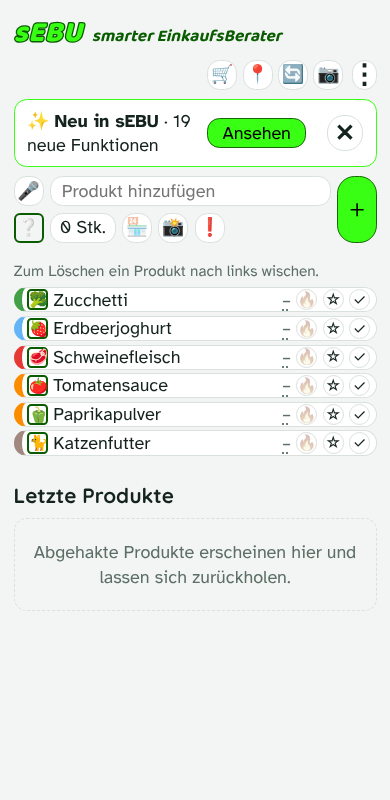
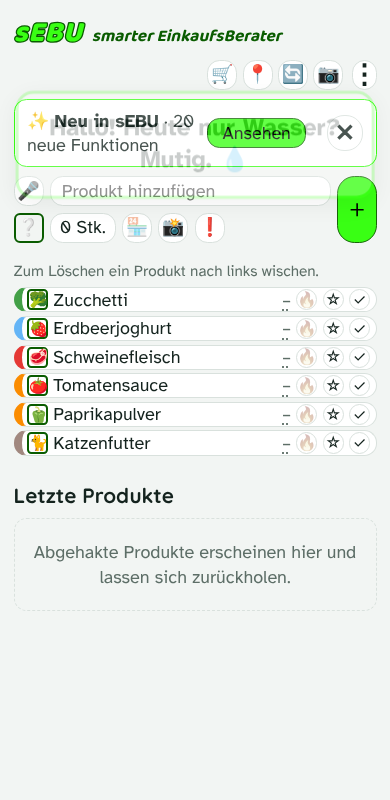
Weiterempfehlen: QR-Code, Link kopieren, Teilen
Claude-Session: https://claude.ai/code/session_01D8YzSZq49mBYGwQ71jG7sa

Changed region(s): [[0.0308, 0.0938, 0.9538, 0.25], [0.9538, 0.125, 0.9846, 0.2188]]

diff --git a/index.html b/index.html
@@ -718,7 +718,8 @@ var NEWS=[
  ['n16','👋','Begrüssung: Beim Öffnen 4 Sekunden ein Spruch zur Tageszeit – einen Monat lang jeden Tag ein anderer. Abschaltbar.',[['settings','row:Begrüssung','Hier wählst du Witzig, Kurz oder Aus.',{'sub':'look'}]]],
  ['n17','🔎','Geschäft suchen: Bei «Wo kaufst du das?» (🏪) findest du mit dem Suchfeld schnell das richtige Geschäft.',[['list','[data-a=shopsel][data-id=draft]','🏪 antippen – oben im Fenster ist das Suchfeld.']]],
  ['n18','❗','Dringendes beim Öffnen: Unter dem Begrüssungs-Spruch stehen deine dringenden Produkte rot – bis du ✕ tippst.',null],
- ['n19','🔎','Laden wählen: Zuerst «Neuer Laden hier», dann suchen – oder «Alle anzeigen» für die Liste nach ABC.',[['list','[data-a=storepick]','📍 antippen: oben neuer Laden, darunter die Suche.']]]];
+ ['n19','🔎','Laden wählen: Zuerst «Neuer Laden hier», dann suchen – oder «Alle anzeigen» für die Liste nach ABC.',[['list','[data-a=storepick]','📍 antippen: oben neuer Laden, darunter die Suche.']]],
+ ['n20','💚','Weiterempfehlen: Im Menü findest du den QR-Code zum Speichern und den Link zum Kopieren oder Teilen.',[['list','.menu [data-v=recommend]','Hier unten im Menü.',{'menu':1}]]]];
 function newsBanner(){var n=S.ob.done&&S.set.news!==false?newsNew().length:0;if(!n)return'';return'<div class="ban" style="flex-wrap:nowrap;align-items:center"><span style="flex:1">✨ <b>'+t('Neu in sEBU')+'</b> · '+t(n===1?'1 neue Funktion':'{0} neue Funktionen',n)+'</span><button class="btn pri" data-a="newsopen">'+t('Ansehen')+'</button><button class="btn sq dealxb" data-a="newsok" aria-label="'+t('Ausblenden')+'">✕</button></div>'}
 function newsNew(){var i=-1;for(var k=0;k<NEWS.length;k++)if(NEWS[k][0]===S.set.newsSeen)i=k;return NEWS.slice(i+1)}
 function newsSteps(n){return(n[3]||[]).map(function(x){return st(x[0],x[1],x[2],0,Object.assign({ro:1},x[3]||{}))})}
@@ -888,6 +889,12 @@ var wheelT=0,wheelD=null;
 function dealPanel(i){return'<div class="card blk" data-up="1" style="touch-action:none">'+dealBody(i)+'<div class="seg"><button class="btn sq" data-a="dealclose" aria-label="'+t('Schliessen')+'">✕</button><span class="small mute" style="align-self:center">↑ '+t('Nach oben wischen zum Schliessen')+'</span></div></div>'}
 
 /* ===== Ansicht Läden ===== */
+/* ===== Weiterempfehlen: QR-Code (fest eingebaut) und Link ===== */
[1 lines of base64/hex data omitted]
+function vRec(){return'<h2>💚 '+t('Weiterempfehlen')+'</h2><p>'+t('Gefällt dir sEBU? Zeig den QR-Code oder schick den Link weiter.')+'</p>'
+ +'<div style="text-align:center;margin:.6em 0"><img id="qrimg" src="'+QRPNG+'" alt="QR-Code sEBU" style="width:min(70vw,16em);border-radius:14px;border:3px solid var(--acc);background:#fff"></div>'
+ +'<div class="seg" style="justify-content:center"><button class="btn pri" data-a="qrsave">💾 '+t('QR-Code speichern')+'</button></div><p class="small mute" style="text-align:center">'+t('Am iPhone geht auch: Bild lange drücken → «Zu Fotos hinzufügen».')+'</p>'
+ +'<h3>🔗 '+t('Link')+'</h3><input class="field" id="recurl" value="'+APPURL+'" readonly style="width:100%"><div class="seg" style="margin-top:.4em"><button class="btn pri" data-a="reccopy">📋 '+t('Link kopieren')+'</button>'+(navigator.share?'<button class="btn" data-a="recshare">📤 '+t('Teilen …')+'</button>':'')+'</div>'}
 function vShops(){var g={},h='<h2>🏪 '+t('Geschäfte')+'</h2>';
  S.items.forEach(function(i){var k=(i.stores||[]).slice();if(i.stext)k.push(i.stext);k.forEach(function(n){(g[n]=g[n]||[]).push(i)})});
  var ks=Object.keys(g);
@@ -1149,6 +1156,7 @@ AREAS.push(['Menü und Ansicht',[
  mn('deals','Aktionen: aktuelle Angebote und deine Beobachtungsliste.','Das 🔥 bei einem Produkt beobachtet es. In den Einstellungen schaltest du das auf automatisch, manuell oder aus. Bei «aus» verschwindet der Menüpunkt.'),
  mn('ideas','Ideen: Vorschläge und Rezepte, deren Zutaten du auf die Liste legst.','Du stellst die Personenzahl ein, die Mengen rechnen sich um.'),
  mn('settings','Einstellungen: alles, was du anpassen kannst.','Dazu gibt es eine eigene Führung, in der du gleich alles einstellen kannst.'),
+ mn('recommend','💚 Weiterempfehlen: QR-Code zeigen oder speichern, Link kopieren oder teilen.','Am iPhone: «QR-Code speichern» öffnet das Teilen-Menü, dort «Bild sichern».\n<b>Wenn das Speichern nicht klappt:</b> das Bild lange drücken und «Zu Fotos hinzufügen» wählen.'),
  st('list','.menu [data-a=more]','Mehr: weitere Funktionen.','Dahinter stehen Ratgeber, Anlässe, Stammartikel, Premium-KI und Test.',{menu:1,ro:1}),
  mn('advice','Ratgeber: Fotografiere ein Produkt oder Regal und frage, was passt.','Du brauchst dafür einen eigenen KI-Schlüssel, oder du kopierst die Frage von Hand.',1),
  mn('events','Anlässe: Planung für Geburtstag, Grillabend oder Besuch.','Die App rechnet Mengen nach Personenzahl und legt die Zutaten auf die Liste.',1),
@@ -1334,7 +1342,7 @@ function vShare(){var on=shareOn(),h='<p class="small mute">'+t('Zwei Personen b
  return h}
 
 /* ===== Kopf, Menü, Rendern ===== */
-var NAV=[['list','🛒','Einkaufsliste'],['lists','📋','Einkaufslisten'],['favs','★','Favoriten'],['shops','🏪','Geschäfte'],['deals','🔥','Aktionen'],['ideas','💡','Ideen'],['settings','⚙','Einstellungen']];
+var NAV=[['list','🛒','Einkaufsliste'],['lists','📋','Einkaufslisten'],['favs','★','Favoriten'],['shops','🏪','Geschäfte'],['deals','🔥','Aktionen'],['ideas','💡','Ideen'],['settings','⚙','Einstellungen'],['recommend','💚','Weiterempfehlen']];
 var MORE=[['advice','📷','Ratgeber'],['events','🎉','Anlässe'],['stamm','📌','Stammartikel'],['kipro','✨','Premium-KI'],['test','🧪','Test & Feedback']];
 function navBtn(n){return'<button data-a="nav" data-v="'+n[0]+'" title="'+t(n[2])+'"'+((view===n[0]&&!(view==='settings'&&sub==='lists'))||(n[0]==='lists'&&view==='settings'&&sub==='lists')?' class="cur"':'')+'><span>'+n[1]+'</span><span class="ml">'+t(n[2])+'</span></button>'}
 function menuHtml(){var m=S.set.mode;return'<div class="menu '+(m==='minimal'?'min':m==='gross'?'big':'')+'">'+NAV.filter(function(n){return !(n[0]==='deals'&&S.set.dm==='off')&&!(n[0]==='favs'&&!on('fav'))}).map(navBtn).join('')+'<button data-a="more"><span>⋯</span><span class="ml">'+t('Mehr')+'</span></button>'+(more?MORE.map(navBtn).join(''):'')+'</div>'}
@@ -1352,7 +1360,7 @@ function tourPos(e){var tc=$('.tc');if(!tc)return;var c=tc.firstElementChild,H=w
  else{var top=Math.max(0,Math.min(r.bottom,H-160));tc.style.top=top+'px';tc.style.bottom='auto';c.style.maxHeight=(H-top-20)+'px';c.style.overflowY='auto'}}
 function R(){applyLook();var a=$('#app');if(!a)return;
  if(!S.ob.done){a.innerHTML=vOnb();save();return}
- var b='';switch(view){case'list':b=vList();break;case'favs':b=vFavs();break;case'shops':b=vShops();break;case'deals':b=vDeals();break;case'ideas':b=vIdeas();break;case'settings':b=vSettings();break;
+ var b='';switch(view){case'list':b=vList();break;case'favs':b=vFavs();break;case'shops':b=vShops();break;case'recommend':b=vRec();break;case'deals':b=vDeals();break;case'ideas':b=vIdeas();break;case'settings':b=vSettings();break;
   case'advice':b=vAdvice();break;case'events':b=vEvents();break;case'stamm':b=vStamm();break;case'kipro':b=vKipro();break;case'test':b=vTest();break;default:b=vList()}
  var tw=['ideas','events','stamm','kipro'].indexOf(view)>-1||(view==='settings'&&(sub==='plan'||sub==='lang'));if(tw)b=testBan()+b;else if(view==='deals')b=testBan(1)+b;
  document.documentElement.classList.toggle('touring',!!tour);
@@ -1434,6 +1442,10 @@ function act(a,el){var D=el.dataset,i,it;
  case'listdel':{var ld0=listById(D.id);if(!ld0)break;sh={t:'confirm',title:t('«{0}» löschen',ld0.name),text:t('Die Produkte dieser Liste kommen in «Allgemein».'),ok:'listdelgo',btn:t('Löschen')};listDelId=D.id;break}
  case'listdelgo':{S.items.forEach(function(i){if(i.list===listDelId)delete i.list});S.lists=S.lists.filter(function(l){return l.id!==listDelId});if(S.curList===listDelId)S.curList='L0';sh=null;break}
  case'greetx':greetOn=false;clearTimeout(greetT);break;
+ case'qrsave':{fetch(QRPNG).then(function(r){return r.blob()}).then(function(bl){var f=new File([bl],'sEBU-QR.png',{type:'image/png'});
+  if(navigator.canShare&&navigator.canShare({files:[f]})){navigator.share({files:[f],title:'sEBU'}).catch(function(){})}else{var a=document.createElement('a');a.href=QRPNG;a.download='sEBU-QR.png';document.body.appendChild(a);a.click();a.remove();say(t('QR-Code gespeichert.'))}}).catch(function(){say(t('Bild lange drücken und «Zu Fotos hinzufügen» wählen.'))});return}
+ case'reccopy':{var ok=function(){say(t('Link kopiert.'))},fb=function(){var x=$('#recurl');if(x){x.select();x.setSelectionRange(0,999);try{document.execCommand('copy');ok()}catch(e){say(t('Link markiert – jetzt «Kopieren» wählen.'))}}};if(navigator.clipboard&&navigator.clipboard.writeText)navigator.clipboard.writeText(APPURL).then(ok,fb);else fb();return}
+ case'recshare':navigator.share({title:'sEBU – smarter EinkaufsBerater',text:t('Schau dir sEBU an – meine Einkaufsliste, die mitdenkt:'),url:APPURL}).catch(function(){});return;
  case'urgtog':if(D.id==='draft'){draft.urg=!draft.urg;var dnv=$('#dn');if(dnv)draft.n=dnv.value}else{var ui=findItem(D.id);if(ui)ui.urg=!ui.urg}break;
  case'urgok':urgEnd=false;break;
  case'undo':if(undo){var ua=undo.k==='h'?S.hist:S.items;ua.splice(Math.min(undo.i,ua.length),0,undo.it);undo=null;clearTimeout(undoT)}break;
@@ -1601,7 +1613,7 @@ var sw0=null,dragId=null,upS=null;
 document.addEventListener('pointerdown',function(e){if(e.target.closest&&e.target.closest('.wheels')&&S.set.tick!==false&&!actx){try{var AC=window.AudioContext||window.webkitAudioContext;if(AC){actx=new AC();var b=actx.createBuffer(1,1,22050),sr=actx.createBufferSource();sr.buffer=b;sr.connect(actx.destination);sr.start(0)}}catch(x){}}},true);
 function catPath(i){var m=i.cat&&cat(i.cat),sb=i.sub&&cat(i.sub);return iconOf(i)+' '+i.name+': '+(m?t('gehört zu')+' '+cname(m)+(sb?' › '+cname(sb):''):t('noch ohne Kategorie'))+'. '+t('Antippen ändert die Kategorie.')}
 /* ===== Erklärung beim Gedrückthalten (2 Sekunden) ===== */
-var HELP={shopstart:'🛒 Einkauf starten: Die App lernt deine Reihenfolge im Laden und sortiert die Liste danach.',storepick:'📍 Laden wählen: von Hand, wenn die Erkennung nicht klappt.',gpsrefresh:'🔄 Laden neu suchen, in dem du gerade bist.',voice:'🎤 Sprache: Produkte sagen statt tippen.',cam:'📷 Strichcode scannen oder den Ratgeber fragen.',catpick:'Kategorie wählen oder ein eigenes Symbol für das Produkt.',qty:'Menge und Einheit ändern.',shopsel:'🏪 Wo kaufst du das? Laden oder Ladentyp wählen.',urgtog:'❗ Dringend: steht immer zuoberst und fällt auf.',add:'＋ Produkt auf die Liste setzen.',fav:'☆ Als Favorit merken.',fsdn:'Schrift kleiner.',storeall:'Alle Läden nach ABC anzeigen.',quick:'⚡ Schnellstart: öffnet direkt den Bereich, den du unter Einstellungen → Einkaufsliste gewählt hast.',listset:'🧾 Diese Liste aktiv machen. Neues kommt in die aktive Liste.',listpick:'Zu dieser Liste wechseln.',listadd:'Neue Einkaufsliste anlegen.',listdel:'Liste löschen – die Produkte kommen in «Allgemein».',storenew:'Neuen Laden mit deinem aktuellen Standort speichern.',geogo:'Weiter zur Standort-Frage von Safari.',todayno:'Für heute ausblenden.',remnextok:'Erinnerung schliessen.',remnextoff:'Nicht mehr an diese Produkte erinnern.',locsave:'Standort dieses Ladens speichern – stehe dafür im Laden.',locno:'Für diesen Laden nicht mehr fragen.',pricesave:'Preis speichern.',photoview:'Foto gross ansehen, ersetzen oder entfernen.',photodel:'Foto entfernen.',newsopen:'Die neuen Funktionen ansehen.',newsok:'Neuheiten-Hinweis ausblenden. Unter Einstellungen → Einführung jederzeit nachlesbar.',remx:'✕ Erinnerung an andere Läden ausblenden – bis zum nächsten Öffnen.',newsshow:'Kurze Führung zu dieser Neuheit.',newsall:'Alle Neuheiten nochmals ansehen.',dealx:'✕ Aktionshinweis ausblenden. Beim nächsten Öffnen der App erscheint er wieder.',hintsback:'Kleine Hinweise wieder anzeigen.',fsup:'Schrift grösser.',check:'✓ Abhaken. Es kommt zu «Letzte Produkte».',menu:'⋮ Menü mit allen Bereichen.',shopend:'⏹ Einkauf beenden.',undo:'↩ Gelöschtes Produkt zurückholen.',back:'Wieder auf die Liste holen.',todayall:'Für heute merken: Die App erinnert dich heute daran.',remind:'🔔 Erinnerung: in sEBU nach dem nächsten Einkauf oder als iPhone-Erinnerung (einstellbar).'},hpT=null,hp0=null,helpShown=0;
+var HELP={shopstart:'🛒 Einkauf starten: Die App lernt deine Reihenfolge im Laden und sortiert die Liste danach.',storepick:'📍 Laden wählen: von Hand, wenn die Erkennung nicht klappt.',gpsrefresh:'🔄 Laden neu suchen, in dem du gerade bist.',voice:'🎤 Sprache: Produkte sagen statt tippen.',cam:'📷 Strichcode scannen oder den Ratgeber fragen.',catpick:'Kategorie wählen oder ein eigenes Symbol für das Produkt.',qty:'Menge und Einheit ändern.',shopsel:'🏪 Wo kaufst du das? Laden oder Ladentyp wählen.',urgtog:'❗ Dringend: steht immer zuoberst und fällt auf.',add:'＋ Produkt auf die Liste setzen.',fav:'☆ Als Favorit merken.',fsdn:'Schrift kleiner.',qrsave:'QR-Code als Bild speichern oder teilen.',reccopy:'Link in die Zwischenablage kopieren.',recshare:'Link per WhatsApp, SMS oder Mail teilen.',storeall:'Alle Läden nach ABC anzeigen.',quick:'⚡ Schnellstart: öffnet direkt den Bereich, den du unter Einstellungen → Einkaufsliste gewählt hast.',listset:'🧾 Diese Liste aktiv machen. Neues kommt in die aktive Liste.',listpick:'Zu dieser Liste wechseln.',listadd:'Neue Einkaufsliste anlegen.',listdel:'Liste löschen – die Produkte kommen in «Allgemein».',storenew:'Neuen Laden mit deinem aktuellen Standort speichern.',geogo:'Weiter zur Standort-Frage von Safari.',todayno:'Für heute ausblenden.',remnextok:'Erinnerung schliessen.',remnextoff:'Nicht mehr an diese Produkte erinnern.',locsave:'Standort dieses Ladens speichern – stehe dafür im Laden.',locno:'Für diesen Laden nicht mehr fragen.',pricesave:'Preis speichern.',photoview:'Foto gross ansehen, ersetzen oder entfernen.',photodel:'Foto entfernen.',newsopen:'Die neuen Funktionen ansehen.',newsok:'Neuheiten-Hinweis ausblenden. Unter Einstellungen → Einführung jederzeit nachlesbar.',remx:'✕ Erinnerung an andere Läden ausblenden – bis zum nächsten Öffnen.',newsshow:'Kurze Führung zu dieser Neuheit.',newsall:'Alle Neuheiten nochmals ansehen.',dealx:'✕ Aktionshinweis ausblenden. Beim nächsten Öffnen der App erscheint er wieder.',hintsback:'Kleine Hinweise wieder anzeigen.',fsup:'Schrift grösser.',check:'✓ Abhaken. Es kommt zu «Letzte Produkte».',menu:'⋮ Menü mit allen Bereichen.',shopend:'⏹ Einkauf beenden.',undo:'↩ Gelöschtes Produkt zurückholen.',back:'Wieder auf die Liste holen.',todayall:'Für heute merken: Die App erinnert dich heute daran.',remind:'🔔 Erinnerung: in sEBU nach dem nächsten Einkauf oder als iPhone-Erinnerung (einstellbar).'},hpT=null,hp0=null,helpShown=0;
 document.addEventListener('pointerdown',function(e){if(S.set.lpHelp===false)return;var hb=e.target.closest&&e.target.closest('button[data-a],a.navb,label.btn');if(!hb||hb.closest('.tc'))return;
  hp0={x:e.clientX,y:e.clientY};clearTimeout(hpT);hpT=setTimeout(function(){var it0=hb.dataset.a==='catpick'&&findItem(hb.dataset.id),m=(it0&&catPath(it0))||HELP[hb.dataset.a]||(hb.classList.contains('navb')?'🧭 Navigation: öffnet Google Maps mit dem Laden als Ziel.':'')||hb.getAttribute('aria-label')||hb.title;if(m){helpShown=Date.now();say(t(m),4500);if(navigator.vibrate)navigator.vibrate(20)}},2000)},true);
 document.addEventListener('pointermove',function(e){if(hp0&&Math.abs(e.clientX-hp0.x)+Math.abs(e.clientY-hp0.y)>12)clearTimeout(hpT)},true);

diff --git a/tests/t31.py b/tests/t31.py
@@ -1,0 +1,15 @@
+# Weiterempfehlen: Menüpunkt, QR-Code, Link kopieren
+from playwright.sync_api import sync_playwright
+import os
+errs=[]
+with sync_playwright() as p:
+    b=p.chromium.launch()
+    c=b.new_context(viewport={'width':390,'height':800},permissions=['clipboard-read','clipboard-write']);pg=c.new_page();pg.on('pageerror',lambda e:errs.append(str(e)))
+    pg.goto('file://'+os.getcwd()+'/index.html');pg.evaluate("localStorage.setItem('sebu.v1',JSON.stringify({ob:{done:true},set:{newsSeen:'n20',greet:'off'}}))");pg.reload()
+    pg.click('#hamb');items=pg.locator('.menu > button').all_inner_texts();print('after settings',[x.replace('\n',' ') for x in items][-3:])
+    pg.click('.menu [data-v=recommend]');print('qr loaded',pg.evaluate("document.getElementById('qrimg').naturalWidth>100"))
+    pg.click('[data-a=reccopy]');pg.wait_for_timeout(300);print('copied',pg.evaluate("navigator.clipboard.readText()"))
+    pg.screenshot(path='/tmp/claude-0/shots/s37.png')
+    c.close();b.close()
+import qrcode
+print(errs)

diff --git a/CLAUDE.md b/CLAUDE.md
@@ -20,7 +20,7 @@ Besitzer: Rico Schubiger (GitHub `Schubiger-Rico`), Schweiz, Deutsch. Er arbeite
 - `manifest.json`, `sw.js`, `icon-180.png` – PWA. `sw.js` lädt eigene Dateien immer frisch (no-cache), offline aus dem Speicher. Das Symbol ist neon-grünes «sEBU» auf dunklem Grund (apple-touch-icon).
 - `antwort.html` – kleine, nicht verlinkte Antwort-Seite für den Brief an Händler (`?an=Migros`): Ja/Nein je Zeile, Bemerkungen, «Antwort senden» öffnet eine E-Mail (mailto) mit Zusammenfassung an Rico; speichert nichts, `noindex`, Adresse im Code zusammengesetzt.
 - `docs/ENTSCHEIDUNGEN.md` – alle Entscheide, Wünsche, offene Punkte (ausführlich, zuerst lesen!). `ROADMAP.md` – ältere Roadmap.
-- `tests/t*.py` – Playwright-Tests (Python). Aufruf im Repo-Hauptordner: `python3 tests/t.py` (sie öffnen `index.html` per file:// aus dem aktuellen Ordner; Chromium + playwright sind vorinstalliert). Jeder Test endet mit `[]` = keine JS-Fehler. t.py allgemein+Tour, t2 Teilen (zwei Handys, Firebase gemockt), t3 Ladentypen/Overpass gemockt, t4 Läden/Ketten/eigene Läden, t5 Aktionen-Modi, t6 App-Tour, t7 Einstellungs-Tour, t8 «← Liste»/«Immer», t9 Einkaufsende «Noch offen», t10 «Welcher Laden?», t11 Ansicht Einfach/Umfänglich/Manuell, t12 Test-Hinweise «🚧», t13 Rückgängig/Sicherung/Strichcode (Firebase und Open Food Facts gemockt), t14 Notfall/dringend, t15 Symbole/Auto-Symbol/Kategorie-Farben, t16 Kopfzeile/Sprache (gemockt)/Öle, t17 Nur Symbole/Erklärung beim Gedrückthalten/Schriftgrösse, t18 Sprach-Parser (gemockt), t19 Kategorien/Auto-Kategorie/Kategorie-Auswahl, t20 Drehräder/Klick (gemockt), t21 Antwort-Seite, t22 Erinnerung andere Läden/Neu in sEBU, t23 Produktfoto, t24 Heute nicht/Erinnerung nach Einkauf/Standort eigene Läden/Preise, t25 Neuer Laden hier/Standort-Erklärung/Hilfe, t26 Mehrere Einkaufslisten, t27 Schnellstart-Knopf, t28 Begrüssung, t29 Geschäft suchen/Geschäfte, t30 Laden wählen (Neuer Laden, Suche, ABC).
+- `tests/t*.py` – Playwright-Tests (Python). Aufruf im Repo-Hauptordner: `python3 tests/t.py` (sie öffnen `index.html` per file:// aus dem aktuellen Ordner; Chromium + playwright sind vorinstalliert). Jeder Test endet mit `[]` = keine JS-Fehler. t.py allgemein+Tour, t2 Teilen (zwei Handys, Firebase gemockt), t3 Ladentypen/Overpass gemockt, t4 Läden/Ketten/eigene Läden, t5 Aktionen-Modi, t6 App-Tour, t7 Einstellungs-Tour, t8 «← Liste»/«Immer», t9 Einkaufsende «Noch offen», t10 «Welcher Laden?», t11 Ansicht Einfach/Umfänglich/Manuell, t12 Test-Hinweise «🚧», t13 Rückgängig/Sicherung/Strichcode (Firebase und Open Food Facts gemockt), t14 Notfall/dringend, t15 Symbole/Auto-Symbol/Kategorie-Farben, t16 Kopfzeile/Sprache (gemockt)/Öle, t17 Nur Symbole/Erklärung beim Gedrückthalten/Schriftgrösse, t18 Sprach-Parser (gemockt), t19 Kategorien/Auto-Kategorie/Kategorie-Auswahl, t20 Drehräder/Klick (gemockt), t21 Antwort-Seite, t22 Erinnerung andere Läden/Neu in sEBU, t23 Produktfoto, t24 Heute nicht/Erinnerung nach Einkauf/Standort eigene Läden/Preise, t25 Neuer Laden hier/Standort-Erklärung/Hilfe, t26 Mehrere Einkaufslisten, t27 Schnellstart-Knopf, t28 Begrüssung, t29 Geschäft suchen/Geschäfte, t30 Laden wählen (Neuer Laden, Suche, ABC), t31 Weiterempfehlen.
 - Falls `playwright` fehlt: `pip install playwright`, dann Chromium-Pfad `/opt/pw-browsers/chromium` als `executable_path` übergeben (nicht `playwright install`).
 - Syntaxprüfung: letztes `<script>` extrahieren und `node --check`.
 - Alte Dateien im Repo (`SmartShop_V5.html`, `SEBU-*.zip`, `sw.js.txt`) sind überflüssig und dürfen gelöscht werden.
@@ -52,6 +52,7 @@ Besitzer: Rico Schubiger (GitHub `Schubiger-Rico`), Schweiz, Deutsch. Er arbeite
 - Mehrere Einkaufslisten: `S.lists` [{id,name,store?}], Standard `L0` «Allgemein», aktuelle `S.curList` (`curL()`), Produkt `item.list` (fehlt = L0, `listOf`). Keine Listen-Leiste mehr (überladen); Wechsel über Schnellstart = «Einkaufslisten» (Knopf `.qkb.ql` zeigt klein die aktive Liste, Antippen → Sheet `listpick`) oder unter Menü → Einkaufslisten «Wählen» (`listset`); Neues kommt in die gewählte Liste; Dringendes ❗ in jeder Liste. Einstellungen-Sparte «Einkaufslisten» (`lists`, `listsBlock`: Name, Laden, ✕ → Produkte nach Allgemein). Mit Laden: `setCur` öffnet die Liste automatisch (`S.set.listAuto`, `listAutoOn`), nach `shopEnd` zurück zu Allgemein. Die Zuordnung pro Produkt zu Läden bleibt zusätzlich bestehen.
 - Schnellstart-Knopf: `S.set.quick` (leer = aus, Standard; sonst Bereich aus `NAV`/`MORE`), Knopf `.qkb` (`quickBtn`, `data-a=quick`) in der Kopfzeile vor 🛒, Auswahl unter Einstellungen → Einkaufsliste.
 - Begrüssung: beim Öffnen und Zurückkehren 4 s gross (`greetShow`, Overlay `#greet`, Antippen schliesst), Tageszeit `greetSlot` (Morgen 5–11, Tag 11–17, Abend 17–22, Nacht), `GREET` je 31 Sprüche, Auswahl nach Tag im Monat → keine Wiederholung im Monat; `S.set.greet` fun (Standard)/short/off unter Darstellung. Dringende Produkte (`greetUrg`) erscheinen rot unter dem Spruch (`.gurg`), dann bleibt die Anzeige bis ✕ (`.gx`).
+- Weiterempfehlen: Menüpunkt «💚 Weiterempfehlen» (`recommend`, `vRec`) nach Einstellungen; QR-Code fest eingebaut (`QRPNG`, PNG base64, Link `APPURL`), «QR-Code speichern» (`qrsave`: Teilen-Menü mit Datei, sonst Download), «Link kopieren» (`reccopy`), «Teilen …» (`recshare`, nur wenn `navigator.share`). Bei Adresswechsel QR neu erzeugen (Python qrcode)!
 - Zeilenhöhe: `S.set.rows` compact (Standard) / normal, Klasse `html.compact` in `applyLook()`.
 - Rückgängig: `delItem()` + `undo` (4 s, Leiste unten). Wischen und «Löschen» nutzen es.
 - Sicherung: Zwischenkopien täglich in localStorage `sebu.bak` (letzte 5, `snap()`), optional täglich in eigene Firebase `/lists/bak-<bakCode>.json` als `{t,j}` (unter `lists`, damit die bestehenden Teilen-Regeln reichen) (JSON-String, ohne apiKey; `cloudBak()`); Holen per Code. Hilfsfunktion `fbSet()` (nicht mit `fbOk()` vom Teilen verwechseln).

diff --git a/docs/ENTSCHEIDUNGEN.md b/docs/ENTSCHEIDUNGEN.md
@@ -830,3 +830,4 @@ Stand heute: 1 gebaut; 2 teilweise (Aktionen, aber ohne echte Datenquelle); 3 te
 
 ### Notiz vom 27.11.2026: «Weiterempfehlen» im Menü (nur festgehalten, noch nicht gebaut)
 - Neuer Menüpunkt im Menü ⋮: QR-Code des App-Links (speicherbar) und den Link zum Kopieren.
+- **Umgesetzt am 27.11.:** Menüpunkt «💚 Weiterempfehlen» nach Einstellungen: QR-Code (speichern), Link kopieren, Teilen. In Führung und «Neu in sEBU» (n20).
